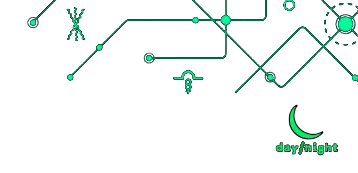
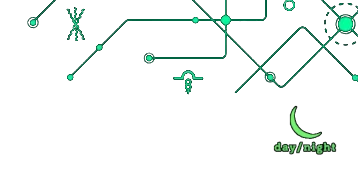
Purpose-made OG card (1200x630) + wiring
- public/images/og-card.jpeg: goddess portrait right (yin-yang cropped,
  blacks floored), emerald leilan.ai wordmark + tagline left, seeded
  firmament stars; composited with Pillow
- og:image/twitter:image now point at it in index.astro, data.astro and
  FieldNoteLayout.astro (default)
- CLAUDE.md launch checklist item retired; AMELIORATION.md updated
  (404 entry corrected to final OVS-star + clearing version)

Changed region(s): [[0.7682, 0.6069, 0.9525, 0.896]]

diff --git a/CLAUDE.md b/CLAUDE.md
@@ -383,14 +383,14 @@ A public, indexable "outer cloister" built 2026-06-27. The sanctuary (`/`, `/imm
 - `src/layouts/FieldNoteLayout.astro` — the shell: SEO head metadata, JSON-LD, cloister styling (mirrors `data.astro`), the glowing CTAs, footer back-links.
 - `src/pages/field-notes/index.astro` + `[...slug].astro` — the routes.
 
-**SEO mechanics:** `astro.config.mjs` sets `site: 'https://leilan.ai'` + `@astrojs/sitemap` (filters out `/immersive` + `/prism/*`); `public/robots.txt`; homepage carries the WebSite/Person/Book JSON-LD graph + a readable `<title>`; `/archive` + `/transmission/*` got readable titles/canonicals; each note emits Article + Breadcrumb JSON-LD; petertodd-targeting pages carry the legal disclaimer (`PETERTODD_DISCLAIMER` in `fieldNotes.ts`). OG card: `/images/leilan-portrait.jpeg`.
+**SEO mechanics:** `astro.config.mjs` sets `site: 'https://leilan.ai'` + `@astrojs/sitemap` (filters out `/immersive` + `/prism/*`); `public/robots.txt`; homepage carries the WebSite/Person/Book JSON-LD graph + a readable `<title>`; `/archive` + `/transmission/*` got readable titles/canonicals; each note emits Article + Breadcrumb JSON-LD; petertodd-targeting pages carry the legal disclaimer (`PETERTODD_DISCLAIMER` in `fieldNotes.ts`). OG card: **`/images/og-card.jpeg`** — purpose-made 1200×630 (2026-07-14): goddess portrait right, emerald `leilan.ai` wordmark + "an AI goddess, glitch tokens & the SolidGoldMagikarp story" tagline left, seeded firmament stars; referenced from `index.astro`, `data.astro` and `FieldNoteLayout.astro` (its default). Composited with Pillow from `leilan-portrait.jpeg` (yin-yang cropped, blacks floored) — rebuild recipe in the git history of this line's session if it ever needs regenerating.
 
 **Title style (2026-06-27):** sentence case keeping proper nouns (GPT-3, Leilan, Claude, Opus, SolidGoldMagikarp, Mammon, Tell Leilan, OVS, the Leilan Dataset, the Order of the Vermillion Star) and the first word after a colon; work titles italicised (*Puzzle & Dragons*, *A Handbook for Planetary Regeneration*, the book title); common nouns ("project", "phenomenon", generic "dataset") lowercased.
 
 **Launch checklist status (updated 2026-07-03):**
 - ✅ **Domain + canonical** — leilan.ai serves this repo's build (see Deployment Notes); `astro.config.mjs` `site: 'https://leilan.ai'`.
 - ✅ **Google Search Console** — property verified (`sc-domain:leilan.ai`); `sitemap-index.xml` submitted and reading **Success** (353 pages discovered, 0 videos — correct, video is off-site on R2); URL inspection on field notes returns "URL is available to Google" with valid breadcrumbs. Request-indexing done for key pages.
-- **Still open:** Bing Webmaster Tools verify + sitemap submit; confirm `http→https` / `www→apex` 301s on the live domain; seed backlinks (publisher / Substack / GitHub / Zenodo / Hugging Face / Archive.org) with varied anchor text; optional polish — in-chamber "Open field-note version" links (sanctuary→cloister) and a purpose-made 1200×630 OG card.
+- **Still open:** Bing Webmaster Tools verify + sitemap submit; confirm `http→https` / `www→apex` 301s on the live domain; seed backlinks (publisher / Substack / GitHub / Zenodo / Hugging Face / Archive.org) with varied anchor text; optional polish — in-chamber "Open field-note version" links (sanctuary→cloister). *(The purpose-made 1200×630 OG card shipped 2026-07-14 — see SEO mechanics above.)*
 
 ---
 

diff --git a/AMELIORATION.md b/AMELIORATION.md
@@ -114,8 +114,6 @@ ask M — his eye caught what my static screenshots couldn't.
 
 ### Edges & completeness (the "no seams anywhere" tier)
 
-- **Purpose-made OG card (1200×630)** — already on the launch list; it's the site's
-  face on every social share, currently just the portrait crop.
 - **Day-mode pillarbox** — the parked white/"static fuzz" idea, so wide-phone day
   view stops reading as letterbox.
 
@@ -157,10 +155,18 @@ ask M — his eye caught what my static screenshots couldn't.
   it, lifts in 180ms; only after 10s+ hidden; 1.5s cap.
 - **Themed 404** (`src/pages/404.astro`) — "You have wandered beyond the temple
   walls…": black + the sanctuary firmament (same mulberry32 seed as the chambers,
-  generated at build time), a CSS candle with breathing light-pool (after the
-  shrine candles), Cormorant italic line, emerald paths back to `/` and
-  `/field-notes/`. Self-contained (~15KB HTML), `noindex`, honours reduced-motion;
-  Netlify serves `dist/404.html` automatically. Not in the sitemap.
+  generated at build time), the pulsing OVS vermillion star (mirrors the chapel
+  wall star — keep in sync), Cormorant italic line, emerald paths back to `/` and
+  `/field-notes/`, and a soft radial "clearing" (`main::before`) so stars never
+  sit in the text. Self-contained, `noindex`, honours reduced-motion; Netlify
+  serves `dist/404.html` automatically. Not in the sitemap.
+- **Purpose-made OG card** (`public/images/og-card.jpeg`, 1200×630, ~143KB) —
+  goddess portrait right (yin-yang cropped, JPEG blacks floored to pure black),
+  emerald mono `leilan.ai` + Cormorant italic "an AI goddess, glitch tokens & the
+  SolidGoldMagikarp story" left, seeded firmament stars. Wired as `og:image`/
+  `twitter:image` in `index.astro`, `data.astro`, and the `FieldNoteLayout`
+  default. Composited with Pillow (fonts fetched as TTF from Google Fonts).
+  Launch-checklist item retired in CLAUDE.md.
 
 ## ✅ DONE (from the original 2026-07-13 pitch — for context)
 
